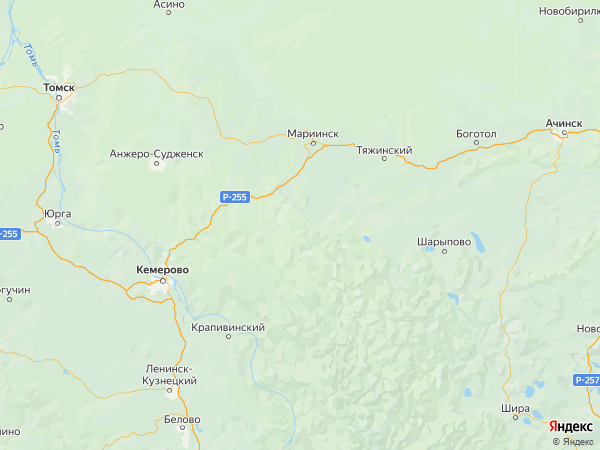
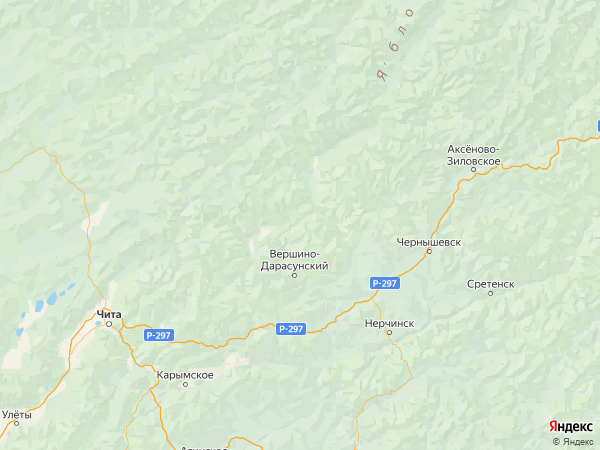
4

diff --git a/main.py b/main.py
@@ -24,8 +24,8 @@ class Window(QMainWindow):
         self.map_ll = [87.6, 55.7]
         self.map_l = 'map'
         self.map_z = 7
-
         self.refresh_map()
+        self.delta = 1
 
     def refresh_map(self):
         map_params = {
@@ -47,6 +47,18 @@ class Window(QMainWindow):
             self.map_z += 1
         elif key == Qt.Key_PageDown and self.map_z > 0:
             self.map_z -= 1
+        elif key == Qt.Key_Up and self.map_ll[1] + self.delta < 90:
+            self.map_ll[1] += self.delta
+        elif key == Qt.Key_Down and self.map_ll[1] - self.delta > -90:
+            self.map_ll[1] -= self.delta
+        elif key == Qt.Key_Right:
+            self.map_ll[0] += self.delta
+            if self.map_ll[0] > 180:
+                self.map_ll[0] -= 360
+        elif key == Qt.Key_Left:
+            self.map_ll[0] -= self.delta
+            if self.map_ll[0] < 0:
+                self.map_ll[0] += 360
         else:
             return
         self.refresh_map()
